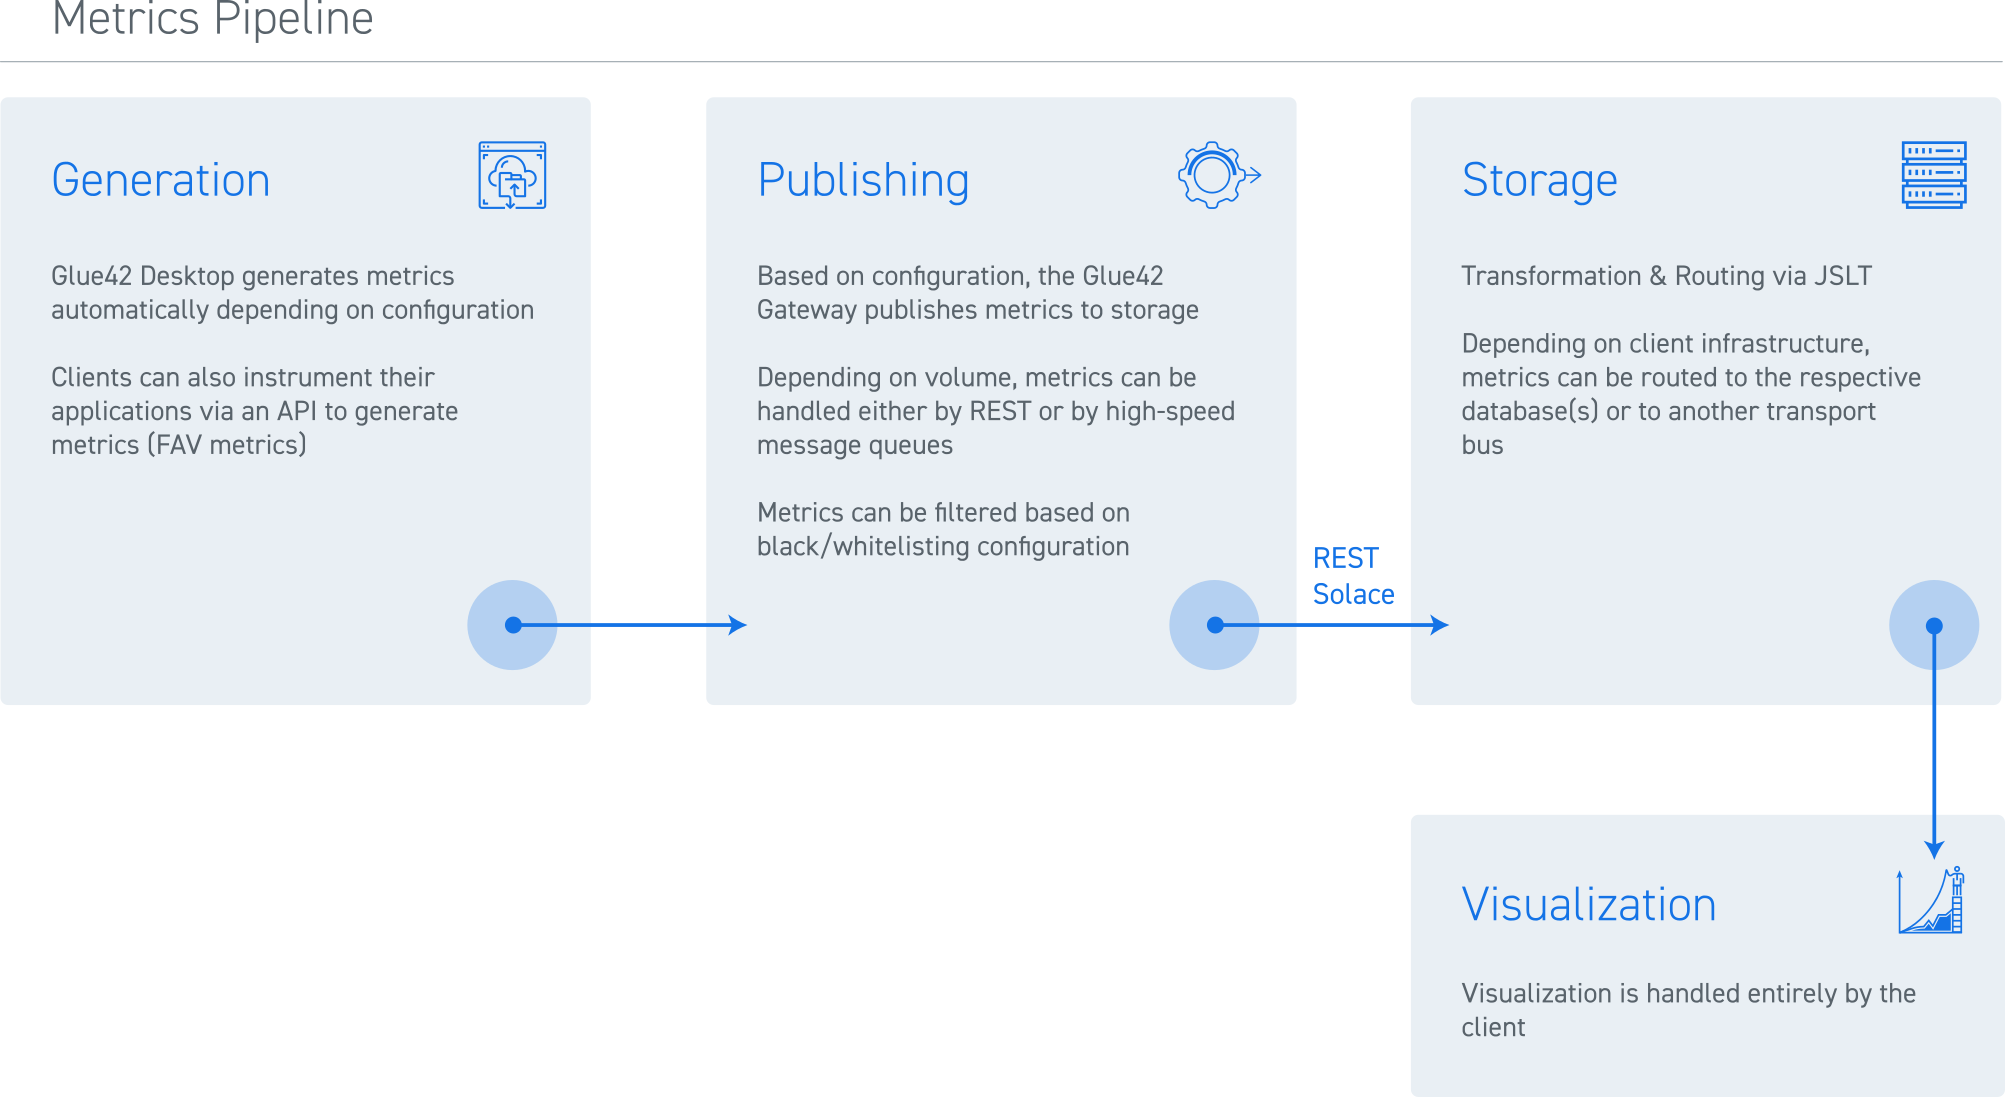
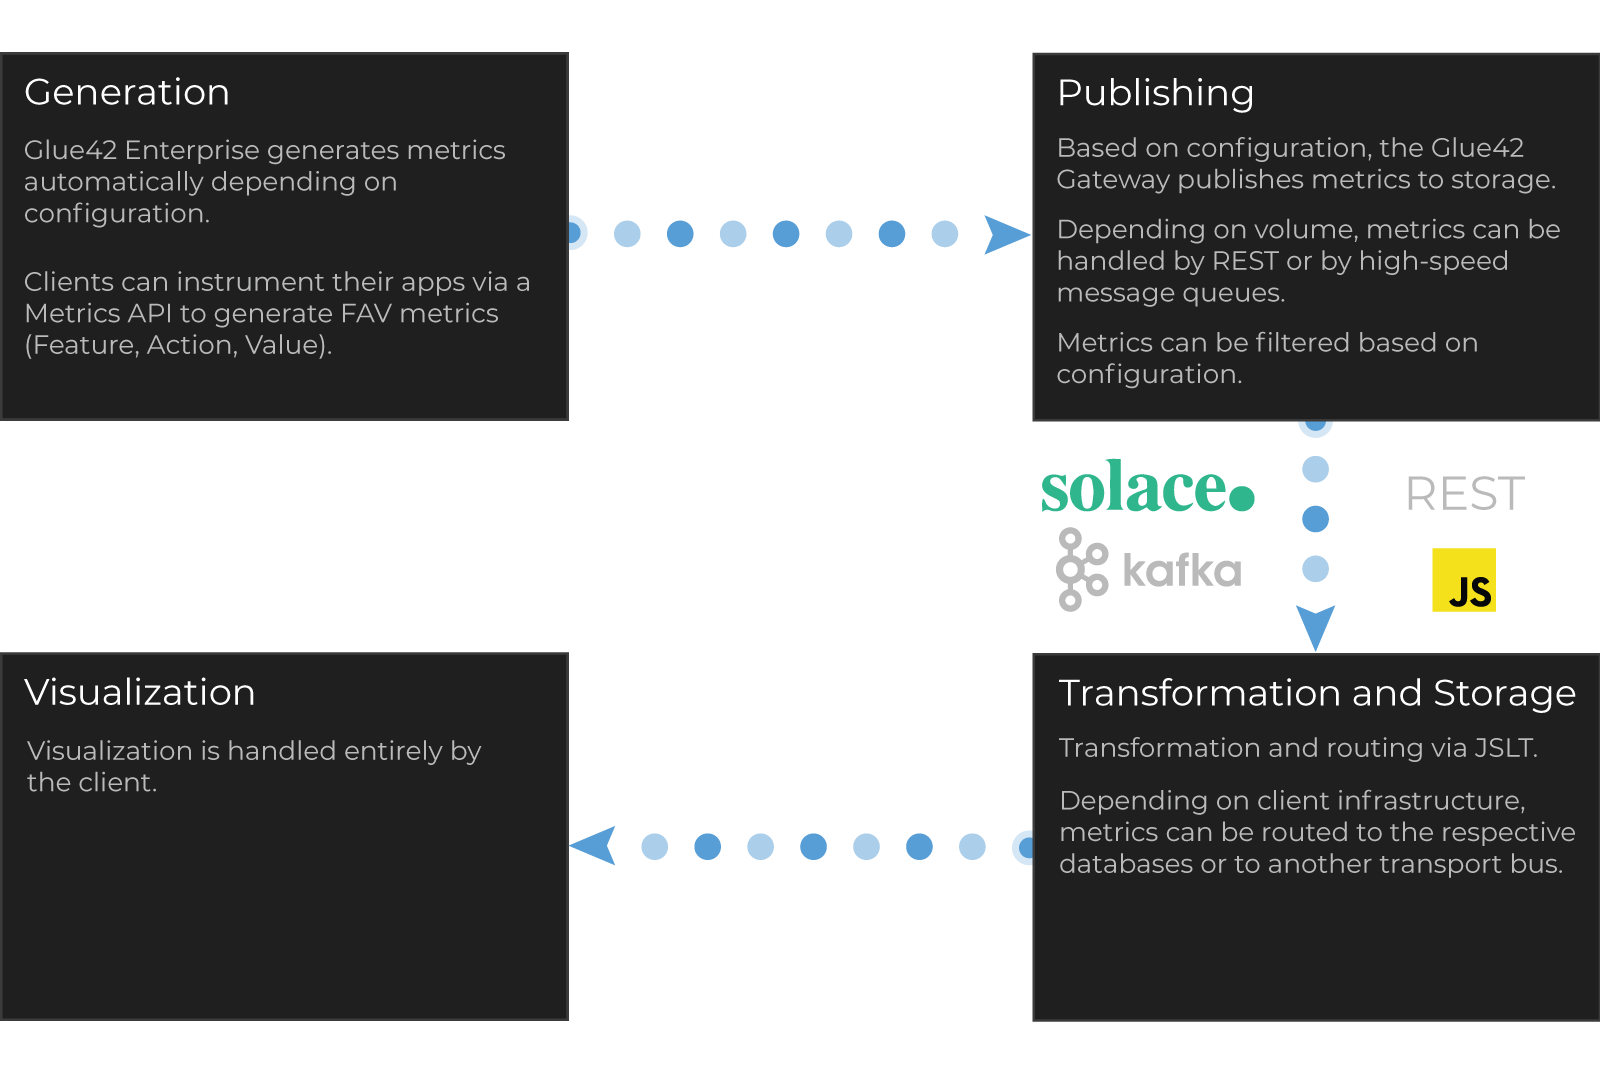
Updated the Metrics section

diff --git a/docs/glue42-concepts/09_metrics/01_overview/metrics-overview.md b/docs/glue42-concepts/09_metrics/01_overview/metrics-overview.md
@@ -8,7 +8,7 @@ To improve the efficiency of your business processes, you often find the need to
 
 ## Generation
 
-[**Glue42 Enterprise**](https://glue42.com/enterprise/) starts to generate metrics automatically when initialized. To control what data you want to receive, add configuration for the metrics in the `"configuration"` property of the `"gw"` top level key of the `system.json` file, located in `%LocalAppData%\Tick42\GlueDesktop\config`. 
+[**Glue42 Enterprise**](https://glue42.com/enterprise/) starts to generate metrics automatically when initialized. To control what data you want to receive, add configuration for the metrics in the `"configuration"` property of the `"gw"` top-level key of the `system.json` file, located in `%LocalAppData%\Tick42\GlueDesktop\config`. 
 
 The example configuration below shows how to allow only the [User Journey](#generation-user_journey_metrics) metrics from all publishers and publish them to a local file:
 
@@ -297,7 +297,7 @@ The generated metrics are also injected automatically with meta-data like timest
 
 ### Custom Metrics
 
-We are constantly communicating with our clients in order to improve our product with new features and functionalities. It is, therefore, possible for us to create custom metrics and add them to our product, if the ideas discussed with our clients prove to be useful and of value.
+There is constant communication between the Glue42 team and clients in order to improve [**Glue42 Enterprise**](https://glue42.com/enterprise/) with new features and functionalities. It is, therefore, possible to create custom metrics and add them to [**Glue42 Enterprise**](https://glue42.com/enterprise/), if the ideas discussed prove to be useful and of value.
 
 ## Publishing
 
@@ -307,6 +307,7 @@ The Glue42 Gateway publishes the generated metrics to a server. The means of tra
 - REST service
 - A user defined JavaScript function
 - Solace
+- Kafka
 
 ### Publishers
 
@@ -345,7 +346,7 @@ The `"publishers"` key specifies a list of metrics publishers, or a JavaScript f
 
 Metrics can be passed to a JavaScript function which handles the publishing. It is possible to define your custom JavaScript publisher function and configure the Glue42 Gateway to pass the metrics to it.
 
-**Configuration**
+#### Configuration
 
 Below is an example configuration for enabling a custom JavaScript publisher. The example uses the template file for creating a JavaScript publisher function provided with the [**Glue42 Enterprise**](https://glue42.com/enterprise/) distribution. To add your custom metrics publisher, add a `"customMetricsPublishers"` property to the Glue42 Gateway configuration under the `"configuration"` property of the `"gw"` key in the `system.json` file of [**Glue42 Enterprise**](https://glue42.com/enterprise/):
 
@@ -384,7 +385,7 @@ Below is an example configuration for enabling a custom JavaScript publisher. Th
 | `"split-size"` | `number` | The number of pieces the metrics batch is split into when it is pushed to the publisher. |
 | `"publisherConfiguration"` | `object` | Custom configuration options that will be passed as an object argument to the function exported from the Node.js module defined in the `"file"` property. |
 
-**JavaScript Publishing Function**
+#### JavaScript Publishing Function
 
 Below is an example skeleton you can use to create your custom JavaScript publisher:
 
@@ -425,7 +426,7 @@ module.exports = function (publisherConfiguration) {
 
 [**Glue42 Enterprise**](https://glue42.com/enterprise/) supports publishing metrics via Solace. You can configure the Glue42 Gateway to publish the generated metrics using Solace as a transport.
 
-**Configuration**
+#### Configuration
 
 Configuring the Glue42 Gateway to use Solace for publishing metrics is similar to configuring a custom JavaScript publisher.
 
@@ -537,11 +538,31 @@ Below is a configuration that allows all metrics from a publisher whose service 
 
 *Note that publishers are going to be created on the metrics bus only when they have matching metrics.*
 
-## Storage
+## Transformation and Storage
 
-Once the metrics are published to a server, they are transformed and routed to the respective storage (or to another transport bus, depending on the client infrastructure and intentions). The transformation is done using the [JSLT](https://github.com/schibsted/jslt) language. The fields in the JSON files are queried and if they meet certain requirements, the metrics are routed to the respective storage/bus. 
+The Glue42 metrics are published as structured JSON trees. Once published to a server, they are transformed and routed to the respective storage (or to another transport bus, depending on the client infrastructure and intentions). The transformation is done using the [JSLT](https://github.com/schibsted/jslt) language. The fields in the JSON files are queried and if they meet certain requirements, the metrics are routed to the respective storage/bus. 
 
-Currently, support is offered for RDBMS, ElasticSearch and VaranDB (Tick42 proprietary Cassandra/ElasticSearch high-volume solution). Support for other options is being developed as well.
+Glue42 provides solutions for metrics transformation depending on the respective storage and data volumes: [Metrics Server](#transformation_and_storage-metrics_server) - for lower record volumes, and [Metrics Recorder](#transformation_and_storage-metrics_recorder) - for large record volumes. Also available is a [Metrix in a Box](#transformation_and_storage-metrics_in_a_box) solution which includes the Metrics Server connected with a preconfigured SQL database and allows clients to quickly connect an analytics tool of their choice in order to evaluate the Metrics Server.
+
+Currently, storage support is offered for RDBMS, ElasticSearch and VaranDB (Tick42 proprietary Cassandra/ElasticSearch high-volume solution). Support for other options is being developed as well.
+
+### Metrics Server
+
+The Metrics Server is a server-side component combining a REST and a transformation service. It can receive metrics via a REST protocol, Kafka and Solace. The Metrics Server transforms the Glue42 metrics allowing for direct storage in SQL databases. Clients can also insert custom code to write to any data store of their choice. The Metrics server is a solution suitable for lower record volumes. The actual volumes depend on the number of metrics and the capacity of the SQL database, but the Metrics Server can handle hundreds of desktops.
+
+![Metrics Server](../../../images/metrics/metrics-server.png)
+
+### Metrics in a Box
+
+The Metrics in a Box solution allows developers to easily setup and evaluate the [Metrics Server](#transformation_and_storage-metrics_server). It comes as two docker images that contain the Metrics Server and an SQL database. The SQL database is preconfigured with tables which store some of the default Glue42 metrics. The Metrics Server transforms the metrics so that they can be used in these tables. Based on this setup, users can connect an analytics software of their choice (e.g., Tableau or Qlik) to the SQL database.
+
+![Metrics in a Box](../../../images/metrics/metrics-in-a-box.png)
+
+### Metrics Recorder
+
+The Metrics Recorder is a Glue42 Java application based on the Tick42 proprietary VaranDB library. The Metrics Recorder can transform large volumes of metrics (from tens of thousands of users) and store them using Cassandra and ElasticSearch storage engines. Supported transports are REST API, Kafka, Solace. A site-specific data extraction process is required to extract the data from the Cassandra/ElasticSearch store and use it for reports. Typically, this involves writing the extracted data to an SQL store for use by a business intelligence system.
+
+![Metrics Recorder](../../../images/metrics/metrics-recorder.png)
 
 ## Visualization
 
